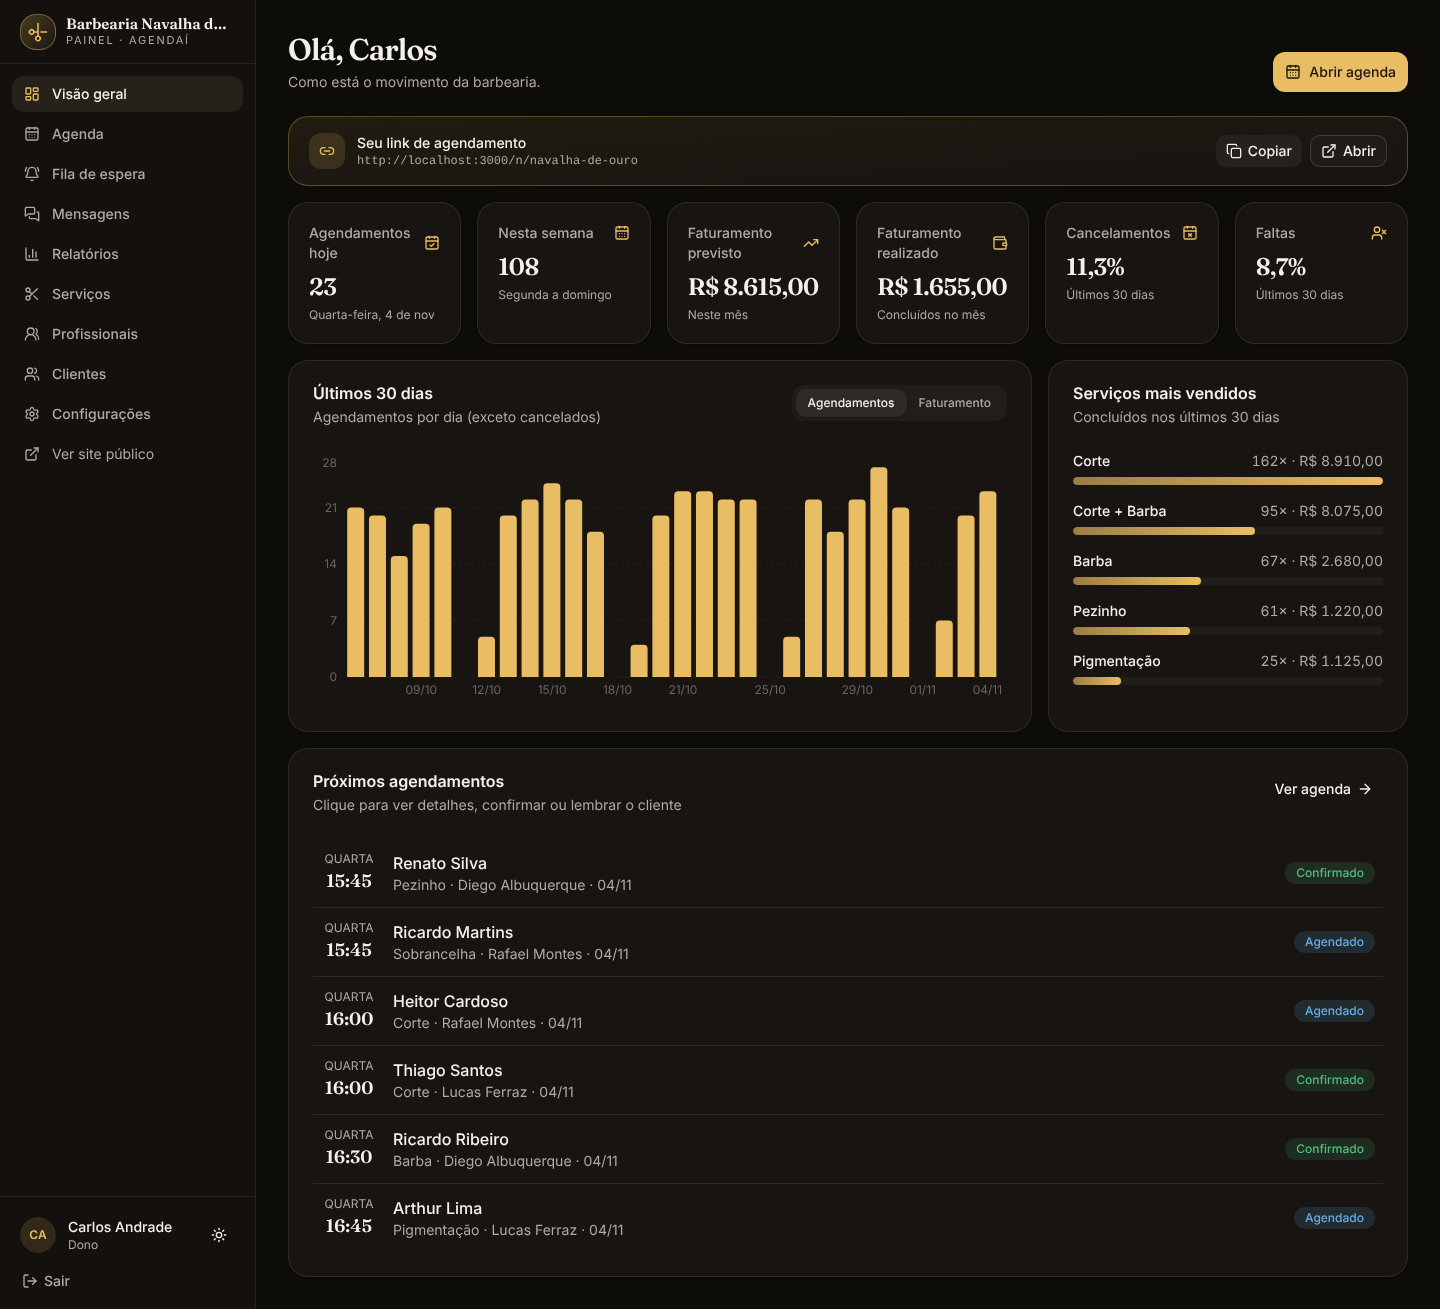
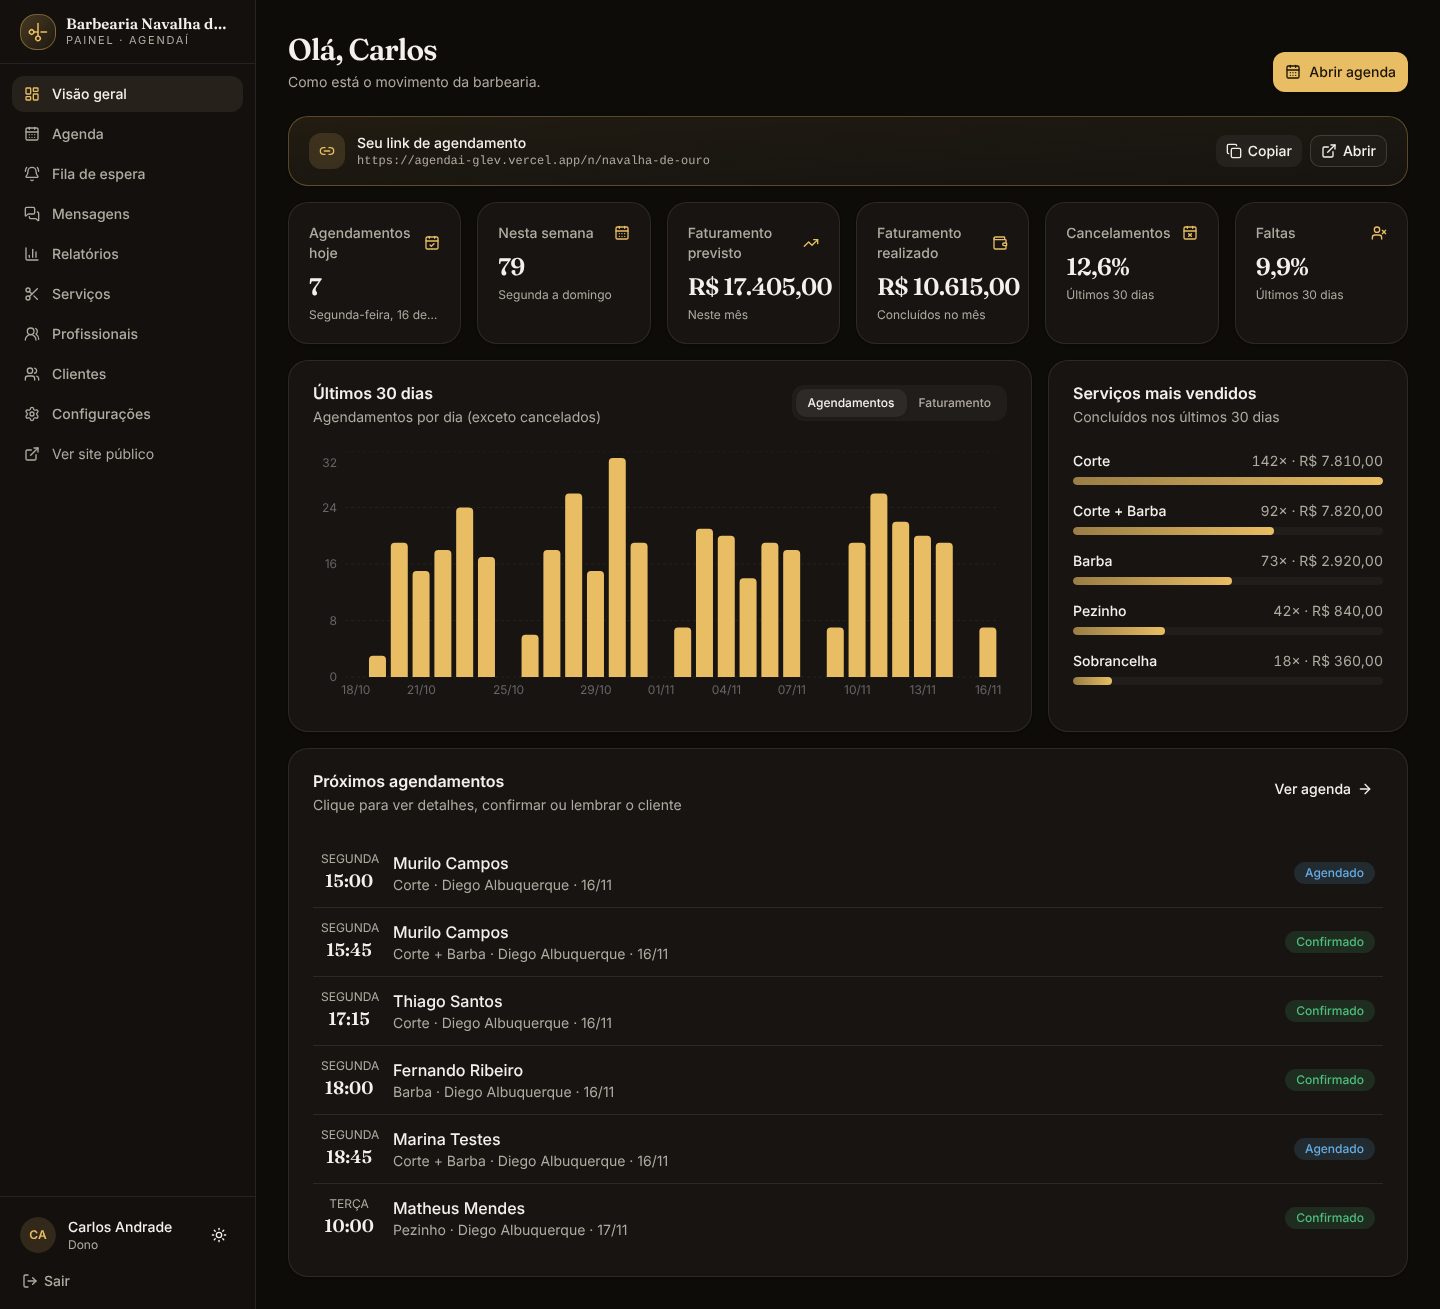
ci: GitHub Actions para API e web; prints sem localhost
API: lint, typecheck, unitários, e2e com Postgres 16 e build. Web: lint,
typecheck e build. PUBLIC_WEB_URL no script de prints mostra o link de
agendamento com o domínio da demo publicada.

Claude-Session: https://claude.ai/code/session_017gFQNF8ZLDaBoMz6XX2cFC

diff --git a/docs/PROGRESSO.md b/docs/PROGRESSO.md
@@ -66,5 +66,9 @@ Arquivo vivo: o que já foi feito e o que falta. Atualizado ao fim de cada fase.
 - [x] "Meu agendamento" mostra o negócio do agendamento em qualquer domínio
 - [x] Guia das variáveis: `docs/VARIAVEIS.md`
 
+## Vitrine do portfólio ✅
+- [x] GitHub Actions: API (lint, tipos, unitários, e2e com Postgres, build) e web (lint, tipos, build) + badge no README
+- [x] Prints regenerados; `PUBLIC_WEB_URL` faz o card "Seu link de agendamento" mostrar o domínio da demo em vez de localhost
+
 ## Pendências / ideias
 - Ver "Limitações conhecidas e próximos passos" no README.

diff --git a/README.md b/README.md
@@ -1,5 +1,7 @@
 # Agendaí — agendamento online white-label
 
+[![CI](https://github.com/VitorValentimSilva/agendai/actions/workflows/ci.yml/badge.svg)](https://github.com/VitorValentimSilva/agendai/actions/workflows/ci.yml)
+
 > Sistema completo de agendamento para barbearias, salões, clínicas e estúdios.
 > A demonstração vem configurada para uma barbearia **fictícia**: **Barbearia Navalha de Ouro** (Campinas – SP).
 
